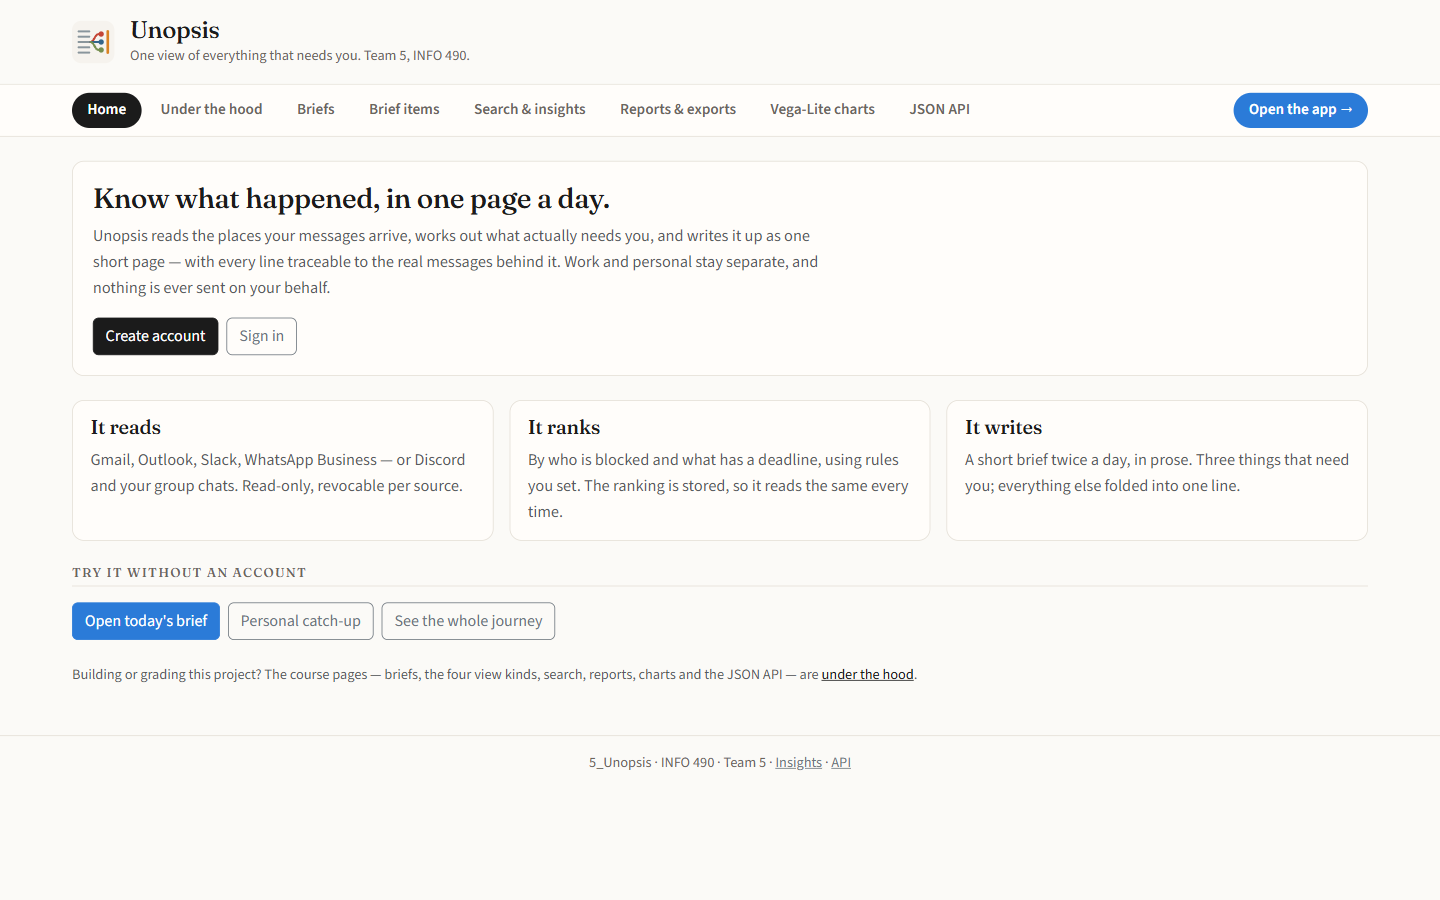
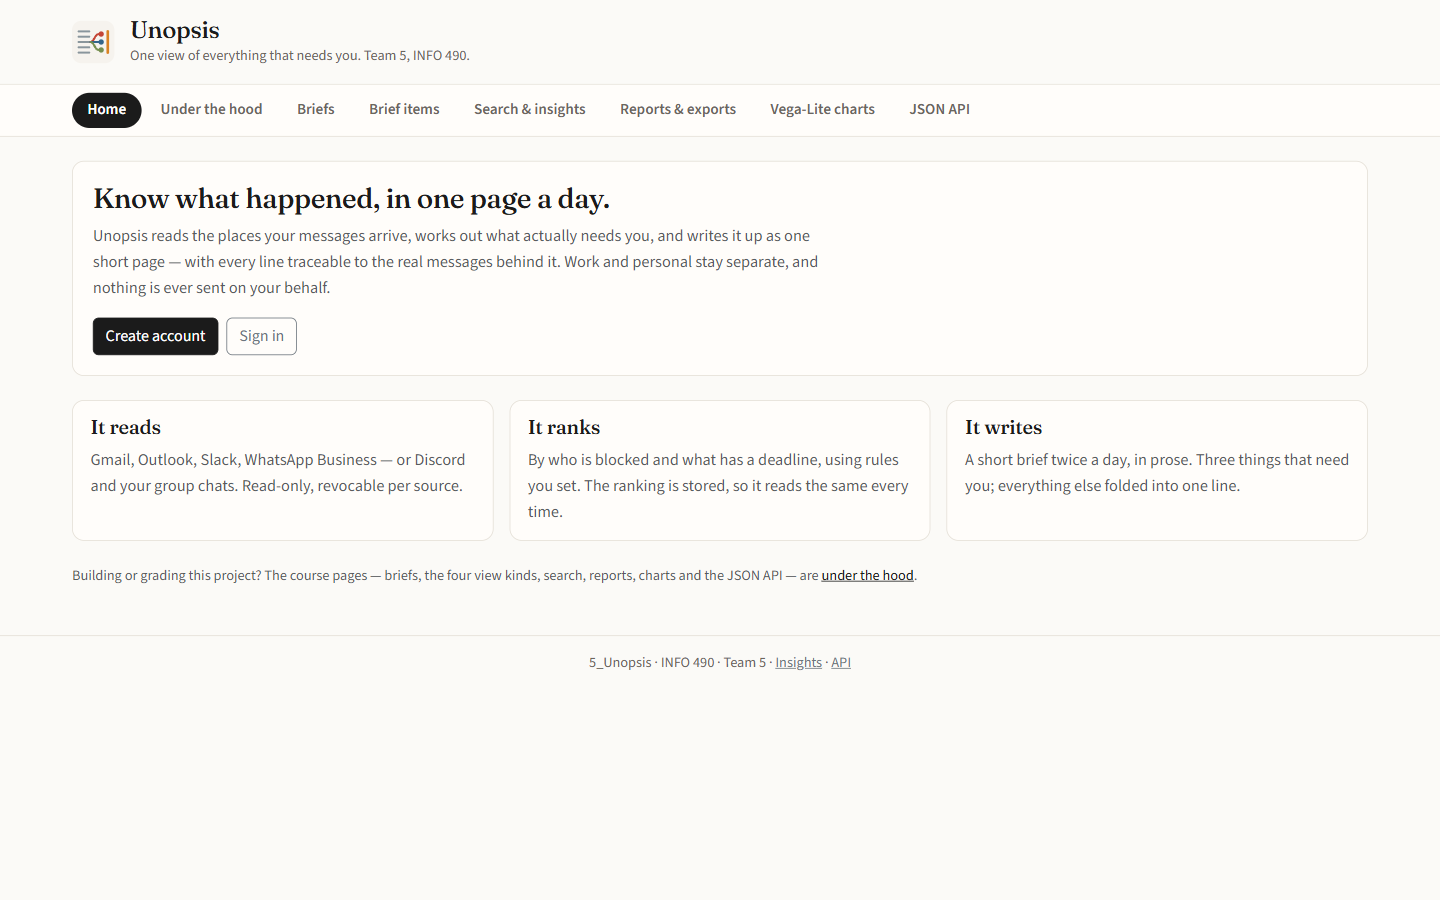
Offer the app only after sign-in: hide Open-the-app shortcuts from visitors

diff --git a/templates/unopsis/_landing.html b/templates/unopsis/_landing.html
@@ -1,6 +1,7 @@
 {% comment %}
   The product page at "/" for someone who is not signed in. It is the wireframe's sign-up
-  pitch (It reads / It ranks / It writes) with the two ways in: an account, or the demo.
+  pitch (It reads / It ranks / It writes), and the only ways into the app from here are
+  Sign in and Create account -- no shortcut around them.
 {% endcomment %}
 <div class="panel mb-4">
   <h2 class="h3 mb-2">Know what happened, in one page a day.</h2>
@@ -34,13 +35,6 @@
       <p class="mb-0 text-muted">A short brief twice a day, in prose. Three things that need you; everything else folded into one line.</p>
     </div>
   </div>
-</div>
-
-<h3 class="section-title">Try it without an account</h3>
-<div class="d-flex flex-wrap gap-2 mb-4">
-  <a class="btn btn-accent" href="{% url 'app-work-brief' %}">Open today's brief</a>
-  <a class="btn btn-outline-secondary" href="{% url 'app-personal-catchup' %}">Personal catch-up</a>
-  <a class="btn btn-outline-secondary" href="{% url 'app-journey' %}">See the whole journey</a>
 </div>
 
 <p class="small text-muted">

diff --git a/templates/unopsis/_dashboard.html b/templates/unopsis/_dashboard.html
@@ -13,13 +13,15 @@
     <a class="btn btn-accent" href="{% url 'insights' %}">Search &amp; insights</a>
     <a class="btn btn-outline-secondary" href="{% url 'item-list-cbv-generic' %}">All brief items</a>
   </div>
-  {# The product itself: the wireframe screens (unopsis/app_urls.py). #}
+  {# The product itself (unopsis/app_urls.py) -- only once signed in; a visitor signs in first. #}
+  {% if user.is_authenticated %}
   <div class="d-flex flex-wrap align-items-center gap-2 mt-3">
     <small class="text-muted">The app:</small>
     <a class="btn btn-sm btn-outline-secondary" href="{% url 'app-work-brief' %}">Open today's brief</a>
     <a class="btn btn-sm btn-outline-secondary" href="{% url 'app-personal-catchup' %}">Personal catch-up</a>
     <a class="btn btn-sm btn-outline-secondary" href="{% url 'app-journey' %}">See the whole journey</a>
   </div>
+  {% endif %}
 </div>
 
 <!-- Totals straight off the ORM (one .count() each) -->

diff --git a/templates/base.html b/templates/base.html
@@ -87,10 +87,12 @@
           <a class="nav-link {% if current|slice:':4' == 'api-' %}active{% endif %}"
              href="{% url 'api-items' %}">JSON API</a>
         </li>
+        {% if user.is_authenticated %}
         <li class="nav-item ms-auto">
-          {# The product itself. Everything else in this bar is the course's "under the hood" view. #}
+          {# The product itself -- only once signed in. A visitor's way in is Sign in / Create account. #}
           <a class="nav-link nav-link--app" href="{% url 'app-work-brief' %}">Open the app &rarr;</a>
         </li>
+        {% endif %}
       </ul>
       {% endwith %}
     </div>

diff --git a/unopsis/test_app_ui.py b/unopsis/test_app_ui.py
@@ -273,10 +273,19 @@ class ShellTests(TestCase):
         self.assertIn(f'href="{reverse("under-the-hood")}"', html)
         self.assertIn("Under the hood", html)
 
-    def test_course_pages_keep_their_own_layout_and_link_into_the_app(self):
+    def test_course_pages_keep_their_own_layout(self):
         response = self.client.get(reverse("brief-list"))
         self.assertTemplateNotUsed(response, "unopsis/app/shell.html")
-        self.assertContains(response, f'href="{reverse("app-work-brief")}"')
+
+    def test_open_the_app_is_only_offered_once_signed_in(self):
+        brief = f'href="{reverse("app-work-brief")}"'
+        signed_out = self.client.get(reverse("brief-list"))
+        self.assertNotContains(signed_out, "Open the app")
+        self.assertNotContains(signed_out, brief)
+        self.client.force_login(self.rows["work"].user)
+        signed_in = self.client.get(reverse("brief-list"))
+        self.assertContains(signed_in, "Open the app")
+        self.assertContains(signed_in, brief)
 
     def test_app_stylesheet_only_loads_inside_the_shell(self):
         from django.templatetags.static import static
@@ -744,11 +753,19 @@ class JourneyAndHomeTests(TestCase):
         self.assertIn(f'href="{reverse("app-work-focus", args=[self.rows["sow"].pk])}"', html)
         self.assertIn(f'href="{reverse("app-thread", args=["work", self.rows["sow"].pk])}"', html)
 
-    def test_home_hero_opens_the_app(self):
+    def test_a_visitor_can_only_sign_in_or_sign_up_from_home(self):
         response = self.client.get(reverse("home"))
-        self.assertContains(response, f'href="{reverse("app-work-brief")}"')
-        self.assertContains(response, f'href="{reverse("app-personal-catchup")}"')
-        self.assertContains(response, f'href="{reverse("app-journey")}"')
+        self.assertContains(response, f'href="{reverse("app-signup")}"')
+        self.assertContains(response, f'href="{reverse("app-login")}"')
+        for name in ("app-work-brief", "app-personal-catchup", "app-journey"):
+            with self.subTest(route=name):
+                self.assertNotContains(response, f'href="{reverse(name)}"')
+
+    def test_under_the_hood_links_into_the_app_only_when_signed_in(self):
+        brief = f'href="{reverse("app-work-brief")}"'
+        self.assertNotContains(self.client.get(reverse("under-the-hood")), brief)
+        self.client.force_login(self.rows["work"].user)
+        self.assertContains(self.client.get(reverse("under-the-hood")), brief)
 
 
 class EmptyJourneyTests(TestCase):

diff --git a/README.md b/README.md
@@ -11,7 +11,9 @@
   page with live matplotlib and Vega-Lite charts, a reports page with CSV/JSON exports, and a
   public JSON API that also checks deadlines against a live public-holiday calendar.
 - `/` is the product page for a visitor (a signed-in user goes straight to `/work/brief/`); the
-  course dashboard that used to be the home page is at `/under-the-hood/`.
+  course dashboard that used to be the home page is at `/under-the-hood/`. A visitor's only way
+  into the app is **Sign in** or **Create account**: the "Open the app" shortcuts appear only
+  once signed in.
 - **The app itself** -- the screens from the wireframes -- starts at `/work/brief/`; `/journey/`
   links every screen in order. See **The app (wireframe UI)** below.
 
